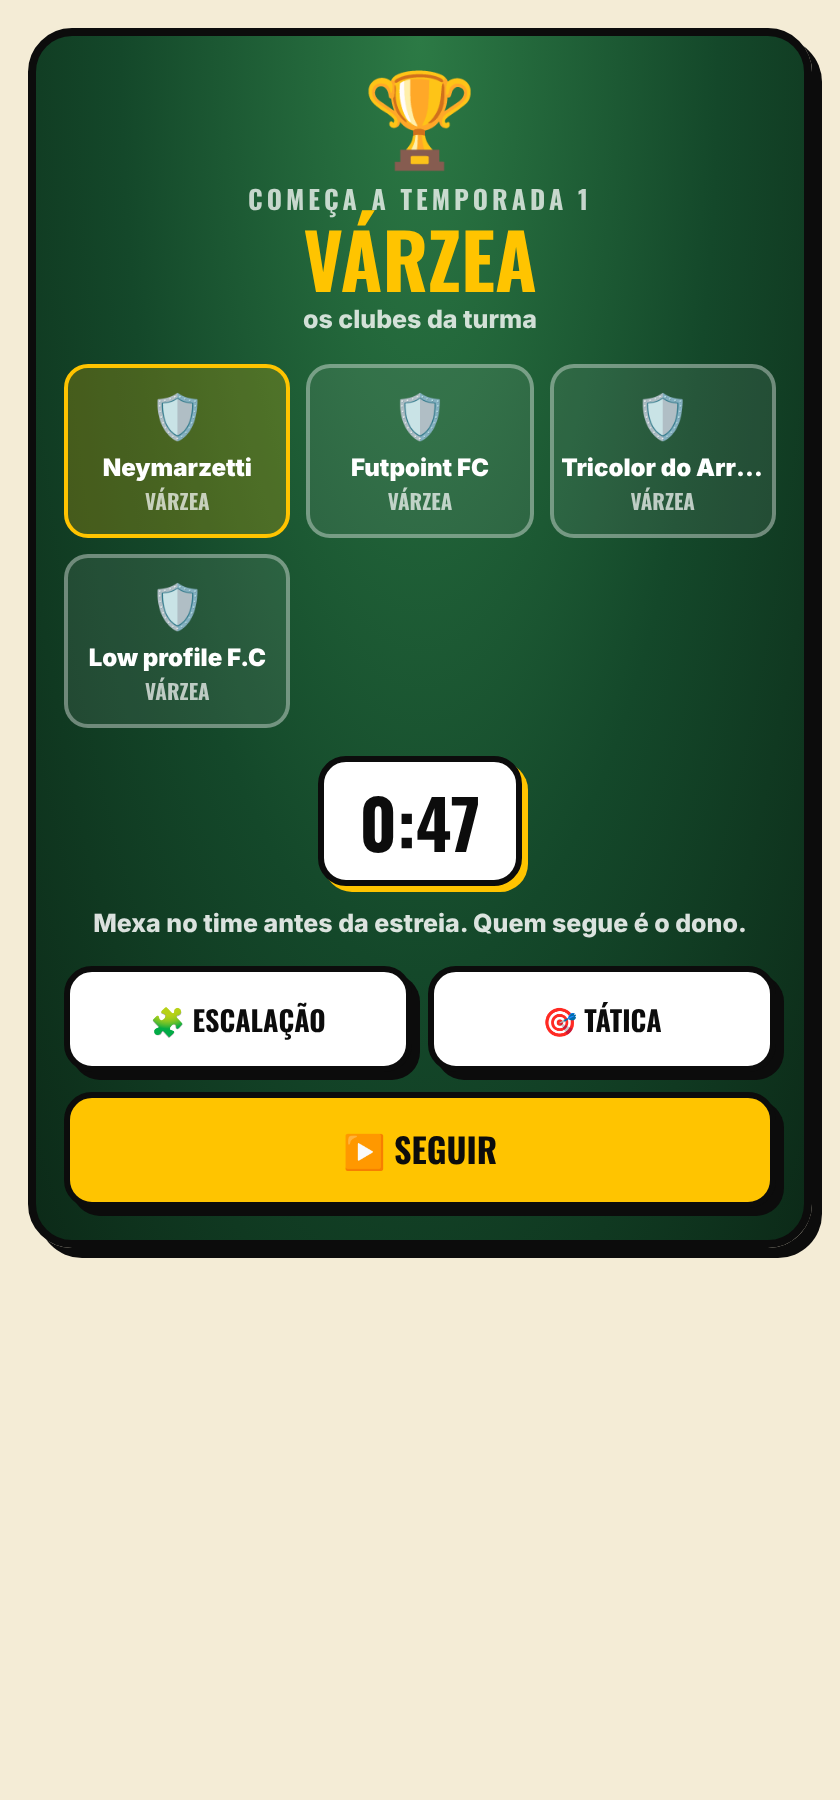
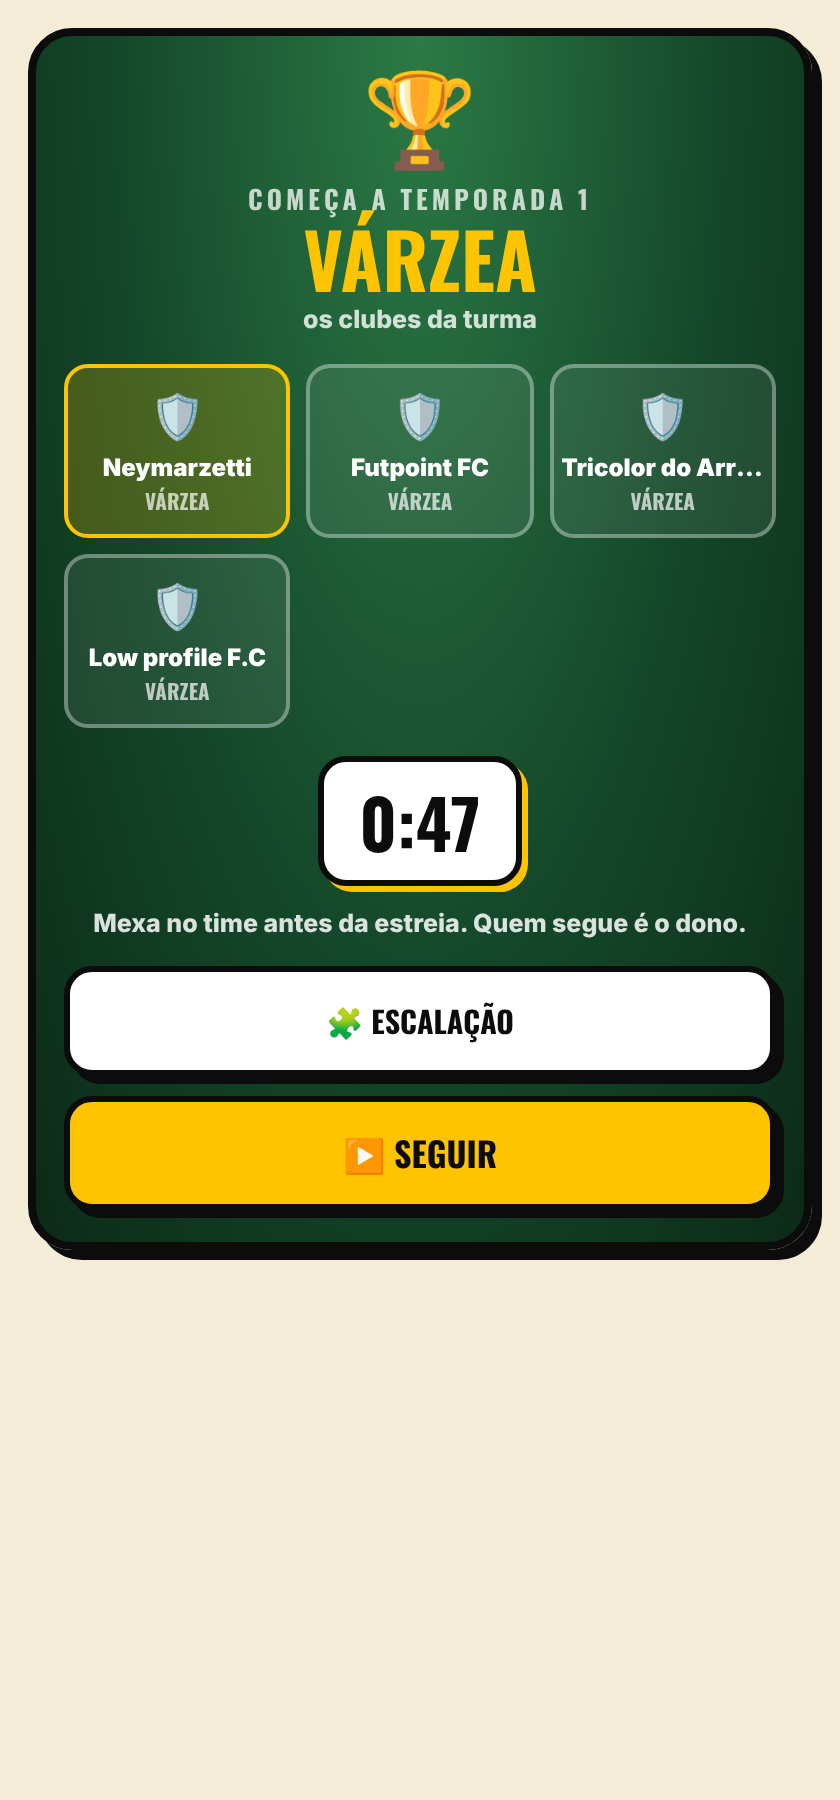
Carreira online: um botão só de Escalação (sem Tática separada) no anúncio e no PRONTO — pedido do Diego
Claude-Session: https://claude.ai/code/session_018Ap1zPCMVL9XeZJN3u93ZA

Changed region(s): [[0.0929, 0.5289, 0.9286, 0.6533], [0.0619, 0.6844, 0.0929, 0.7156]]

diff --git a/src/escalacao/co2-telas.tsx b/src/escalacao/co2-telas.tsx
@@ -209,8 +209,8 @@ async function lePrivado(): Promise<EscState | null> {
 const PRAZO_S = 60
 const PRAZO_DINAMICA_S = 15 // o banco aceita no mínimo 15 s; na Dinâmica o dono começa logo que a rodada anterior terminou de animar
 
-export function Co2Temporada({ entradasLocais, round, roundReady, seasonOver, onEscalacao, onTatica }: {
-  entradasLocais: EntradasMundo; round: number; roundReady: boolean; seasonOver: boolean; onEscalacao: () => void; onTatica: () => void
+export function Co2Temporada({ entradasLocais, round, roundReady, seasonOver, onEscalacao }: {
+  entradasLocais: EntradasMundo; round: number; roundReady: boolean; seasonOver: boolean; onEscalacao: () => void; onTatica?: () => void
 }) {
   const { state, dispatch } = useEsc()
   const sn = useCo2()
@@ -323,7 +323,7 @@ export function Co2Temporada({ entradasLocais, round, roundReady, seasonOver, on
   return (
     <div style={{ display: 'grid', gap: 10, marginBottom: 10 }}>
       {sala.fase === 'preparo' && dinamica && sala.rodada === 0 && (
-        <Co2Anuncio restante={restante} comanda={comanda} onEscalacao={onEscalacao} onTatica={onTatica} onSeguir={() => { comecouRef.current = sala.rodada; void co2Comecar() }} />
+        <Co2Anuncio restante={restante} comanda={comanda} onEscalacao={onEscalacao} onSeguir={() => { comecouRef.current = sala.rodada; void co2Comecar() }} />
       )}
       {sala.fase === 'preparo' && dinamica && sala.rodada > 0 && (
         <div style={{ ...caixa('#FFF8DC'), padding: '10px 12px', display: 'flex', alignItems: 'center', gap: 10 }}>
@@ -342,10 +342,7 @@ export function Co2Temporada({ entradasLocais, round, roundReady, seasonOver, on
           </div>
           <div style={{ height: 12, border: `2.5px solid ${INK}`, borderRadius: 99, background: '#fff', margin: '10px 0 4px', overflow: 'hidden' }}><div style={{ width: `${pct}%`, height: '100%', background: GREEN }} /></div>
           <p style={{ fontWeight: 900, fontSize: 12, margin: '0 0 8px' }}>✅ {prontos} {tr('de', 'of')} {humanos} {tr('prontos', 'ready')}{faltam.length ? ` · ${tr('faltam', 'missing')}: ${faltam.join(', ')}` : ''}</p>
-          <div style={{ display: 'flex', gap: 8, marginBottom: 8 }}>
-            <button onClick={onEscalacao} style={{ ...botao('#fff'), fontSize: 14 }}>🧩 {tr('Escalação', 'Lineup')}</button>
-            <button onClick={onTatica} style={{ ...botao('#fff'), fontSize: 14 }}>🎯 {tr('Tática', 'Tactic')}</button>
-          </div>
+          <button onClick={onEscalacao} style={{ ...botao('#fff'), fontSize: 14, marginBottom: 8 }}>🧩 {tr('Escalação', 'Lineup')}</button>
           <button disabled={euPronto} onClick={() => void (async () => { await sobeGaveta(); await co2Pronto(sala.rodada + 1, { r: sala.rodada + 1 }) })()} style={botao(euPronto ? '#CFE8D6' : GREEN, euPronto ? INK : '#fff')}>
             {euPronto ? tr('✅ Pronto! Esperando os outros…', '✅ Ready! Waiting for the others…') : tr('✅ Estou pronto', '✅ I\'m ready')}
           </button>
@@ -494,7 +491,7 @@ export function Co2ViradaEspera() {
 // mundo mexer no time. Troféu + nome, os clubes da turma (o seu em dourado), relógio grande, Escalação/Tática. O relógio é AVISO:
 // quem segue é o dono (pergunta se for antes do tempo). Hoje: a estreia de cada temporada (a liga).
 const NOME_DIV: Record<string, [string, string]> = { A: ['SÉRIE A', 'SERIE A'], B: ['SÉRIE B', 'SERIE B'], C: ['SÉRIE C', 'SERIE C'], D: ['SÉRIE D', 'SERIE D'], V: ['VÁRZEA', 'AMATEUR LEAGUE'] }
-export function Co2Anuncio({ restante, comanda, onEscalacao, onTatica, onSeguir }: { restante: number | null; comanda: boolean; onEscalacao: () => void; onTatica: () => void; onSeguir: () => void }) {
+export function Co2Anuncio({ restante, comanda, onEscalacao, onSeguir }: { restante: number | null; comanda: boolean; onEscalacao: () => void; onSeguir: () => void }) {
   const { state } = useEsc()
   const meuId = state.managers[state.youIdx]?.id
   const divDe = (id: number) => state.careerPlacements?.[`m${id}`] ?? 'V'
@@ -526,10 +523,8 @@ export function Co2Anuncio({ restante, comanda, onEscalacao, onTatica, onSeguir 
       </div>
       <div style={{ display: 'inline-block', background: '#fff', color: INK, border: `3px solid ${INK}`, borderRadius: 14, boxShadow: `3px 3px 0 ${GOLD}`, padding: '4px 18px', ...OSWALD, fontWeight: 900, fontSize: 34 }}>{mm}</div>
       <p style={{ fontWeight: 800, fontSize: 12.5, margin: '10px 0 12px', color: 'rgba(255,255,255,.85)' }}>{restante === 0 ? tr('O tempo acabou. Quem começa é o dono.', 'Time is up. The owner kicks it off.') : tr('Mexa no time antes da estreia. Quem segue é o dono.', 'Tweak your team before kick-off. The owner moves it on.')}</p>
-      <div style={{ display: 'flex', gap: 8 }}>
-        <button onClick={onEscalacao} style={{ ...botao('#fff'), fontSize: 14 }}>🧩 {tr('Escalação', 'Lineup')}</button>
-        <button onClick={onTatica} style={{ ...botao('#fff'), fontSize: 14 }}>🎯 {tr('Tática', 'Tactic')}</button>
-      </div>
+      {/* 27/11 (Diego: *"escalação já engloba táticas"*): um botão só */}
+      <button onClick={onEscalacao} style={{ ...botao('#fff'), fontSize: 15 }}>🧩 {tr('Escalação', 'Lineup')}</button>
       {comanda && <button onClick={seguir} style={{ ...botao(GOLD), marginTop: 10 }}>▶ {tr('Seguir', 'Go')}</button>}
     </div>
   )

diff --git a/CLAUDE.md b/CLAUDE.md
@@ -429,6 +429,7 @@ As sessões não se veem — o repo é a memória comum. Então TODA sessão dev
    leem.
 
 ## 💛 Gostos do Diego (aprendidos na prática — respeitar)
+- **🧩 27/11: ESCALAÇÃO JÁ ENGLOBA TÁTICA.** *"escalacao já engloba táticas e etc"*. Nada de botão 🎯 Tática separado do 🧩 Escalação nas telas novas (anúncio, PRONTO da carreira online): um botão só.
 - **🌐🧑🤝🧑 26/11: CARREIRA ONLINE — REGRAS DELE.** Até 20 clubes de gente · **sem vice** (sem o dono, espera) · **criar só com plano** · entrar
   de graça só ANTES de começar; depois, só com plano + convite aceito (igual Liga Draft, nem na virada) · quem não jogou **não perde o clube**:
   o time joga sozinho e ele alcança ao voltar (na virada, fica com o mesmo time). Plano em `docs/carreira-online-logistica.md`.
